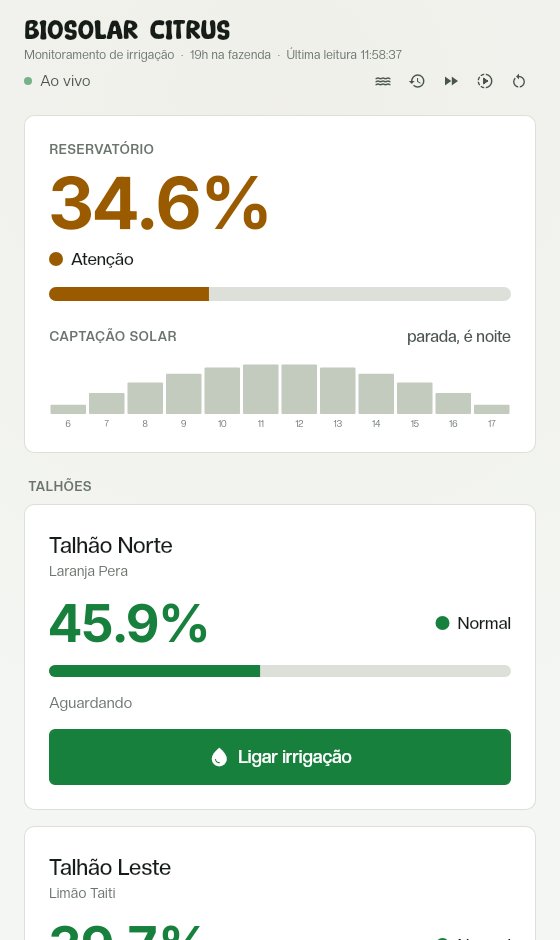
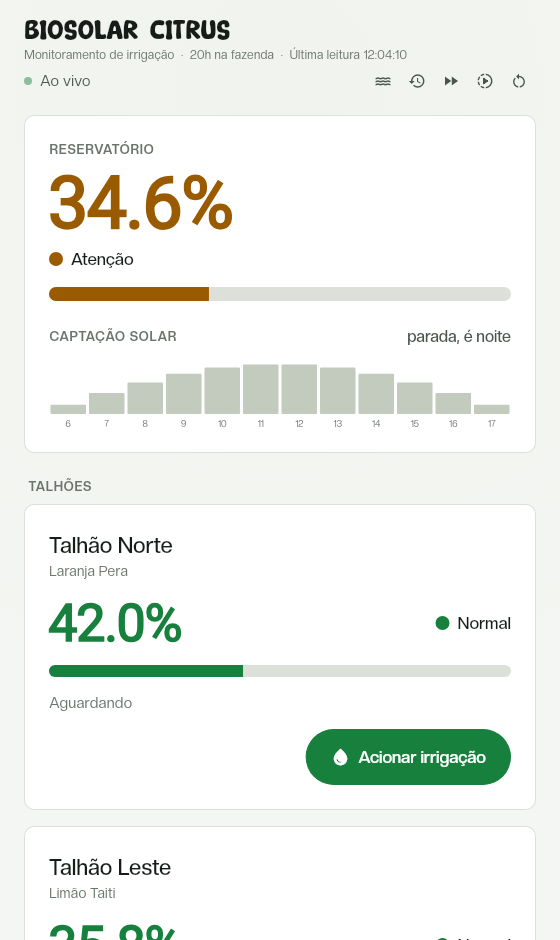
feat(app): botao de acionamento preenchido, vazado e em pilula
Desligada, o botao vem preenchido com o verde de estado normal do tema, texto
branco e icone de gota, com o rotulo Acionar irrigacao: e a acao de destaque.
Ligada, vem vazado, com borda de um pixel, texto na cor principal e icone de
parada, com o rotulo Desligar irrigacao: e a acao de recuo. No bloqueio segue
travado com cadeado, agora no mesmo formato de pilula.

O botao deixou de ocupar a largura do cartao e passou a ter a largura do proprio
rotulo, alinhado a direita, entao o canto de leitura do cartao continua sendo a
esquerda.

O raio de pilula entrou como token em Raio, junto de card e interno, para o
canto arredondado nao virar numero solto. Cor e espacamento saem todos do tema.

Conferido em 375, 480, 820 e 1200, nos tres estados: o rotulo nao corta em
nenhuma largura e a altura de toque segue em 56 pixels, acima dos 48
recomendados.

diff --git a/app/lib/nucleo/tema.dart b/app/lib/nucleo/tema.dart
@@ -22,6 +22,9 @@ abstract final class Espaco {
 abstract final class Raio {
   static const double card = 10;
   static const double interno = 6;
+
+  /// Canto totalmente arredondado, para o botao de acionamento.
+  static const double pilula = 999;
 }
 
 abstract final class Cores {
@@ -245,11 +248,13 @@ class BarraNivel extends StatelessWidget {
 
 /// Botão de acionamento, no lugar do Switch do Material.
 ///
-/// Feito para ser tocado com uma mão, de pé no meio do pomar: ocupa a largura
-/// do cartão, tem 56 pixels de altura e o rótulo diz a ação que vai acontecer,
-/// não o estado, porque o estado já está escrito acima dele. Durante o bloqueio
-/// mostra cadeado, em vez de ficar apenas cinza, que é como um Switch
-/// desabilitado se parece com um Switch qualquer.
+/// Feito para ser tocado com uma mão, de pé no meio do pomar: 56 pixels de
+/// altura e o rótulo dizendo a ação que vai acontecer, não o estado, porque o
+/// estado já está escrito acima dele.
+///
+/// Acionar é a ação de destaque, então vem preenchida. Desligar é a de recuo,
+/// então vem vazada. Durante o bloqueio mostra cadeado, em vez de ficar apenas
+/// cinza, que é como um Switch desabilitado se parece com um Switch qualquer.
 class Interruptor extends StatelessWidget {
   const Interruptor({
     required this.ligado,
@@ -270,12 +275,13 @@ class Interruptor extends StatelessWidget {
     if (travado) {
       return Container(
         height: altura,
+        padding: const EdgeInsets.symmetric(horizontal: Espaco.g),
         decoration: BoxDecoration(
           color: Cores.superficieAlta,
-          borderRadius: BorderRadius.circular(Raio.interno),
+          borderRadius: BorderRadius.circular(Raio.pilula),
           border: Border.all(color: Cores.borda),
         ),
-        child: Row(mainAxisAlignment: MainAxisAlignment.center, children: [
+        child: Row(mainAxisSize: MainAxisSize.min, children: [
           const Icon(Icons.lock_outline, size: 20, color: Cores.textoSecundario),
           const SizedBox(width: Espaco.p),
           Text('Travado pelo bloqueio',
@@ -284,29 +290,26 @@ class Interruptor extends StatelessWidget {
       );
     }
 
-    // Ligar e a acao de destaque, entao ela vem solida. Desligar e a acao de
-    // recuo, entao vem contornada: as duas com o mesmo tamanho de alvo.
+    final cor = ligado ? Cores.texto : Colors.white;
+
     return GestureDetector(
       onTap: () => aoAlternar(!ligado),
       child: AnimatedContainer(
         duration: const Duration(milliseconds: 200),
         height: altura,
-        alignment: Alignment.center,
+        padding: const EdgeInsets.symmetric(horizontal: Espaco.g),
         decoration: BoxDecoration(
-          color: ligado ? Cores.superficie : Cores.verde,
-          borderRadius: BorderRadius.circular(Raio.interno),
+          color: ligado ? Colors.transparent : Cores.verde,
+          borderRadius: BorderRadius.circular(Raio.pilula),
           border: Border.all(
-              color: ligado ? Cores.textoSecundario : Cores.verde,
-              width: 2),
+              color: ligado ? Cores.borda : Cores.verde, width: 1),
         ),
-        child: Row(mainAxisAlignment: MainAxisAlignment.center, children: [
+        child: Row(mainAxisSize: MainAxisSize.min, children: [
           Icon(ligado ? Icons.stop_circle_outlined : Icons.water_drop,
-              size: 22,
-              color: ligado ? Cores.texto : Colors.white),
+              size: 20, color: cor),
           const SizedBox(width: Espaco.p),
-          Text(ligado ? 'Desligar irrigação' : 'Ligar irrigação',
-              style: Fontes.titulo(ligado ? Cores.texto : Colors.white,
-                  tamanho: 18)),
+          Text(ligado ? 'Desligar irrigação' : 'Acionar irrigação',
+              style: Fontes.titulo(cor, tamanho: 17)),
         ]),
       ),
     );

diff --git a/app/lib/funcionalidades/monitoramento/apresentacao/tela_monitoramento.dart b/app/lib/funcionalidades/monitoramento/apresentacao/tela_monitoramento.dart
@@ -816,10 +816,15 @@ class _LinhaTalhao extends StatelessWidget {
             overflow: TextOverflow.ellipsis,
           ),
           SizedBox(height: celular ? Espaco.p : Espaco.m),
-          Interruptor(
-            ligado: bomba.ligada,
-            travado: travado,
-            aoAlternar: (ligar) => aoAlternar(bomba, ligar),
+          // Alinhado à direita: o botão tem a largura do próprio rótulo, e o
+          // canto de leitura do cartão continua sendo a esquerda.
+          Align(
+            alignment: Alignment.centerRight,
+            child: Interruptor(
+              ligado: bomba.ligada,
+              travado: travado,
+              aoAlternar: (ligar) => aoAlternar(bomba, ligar),
+            ),
           ),
         ],
       ),
